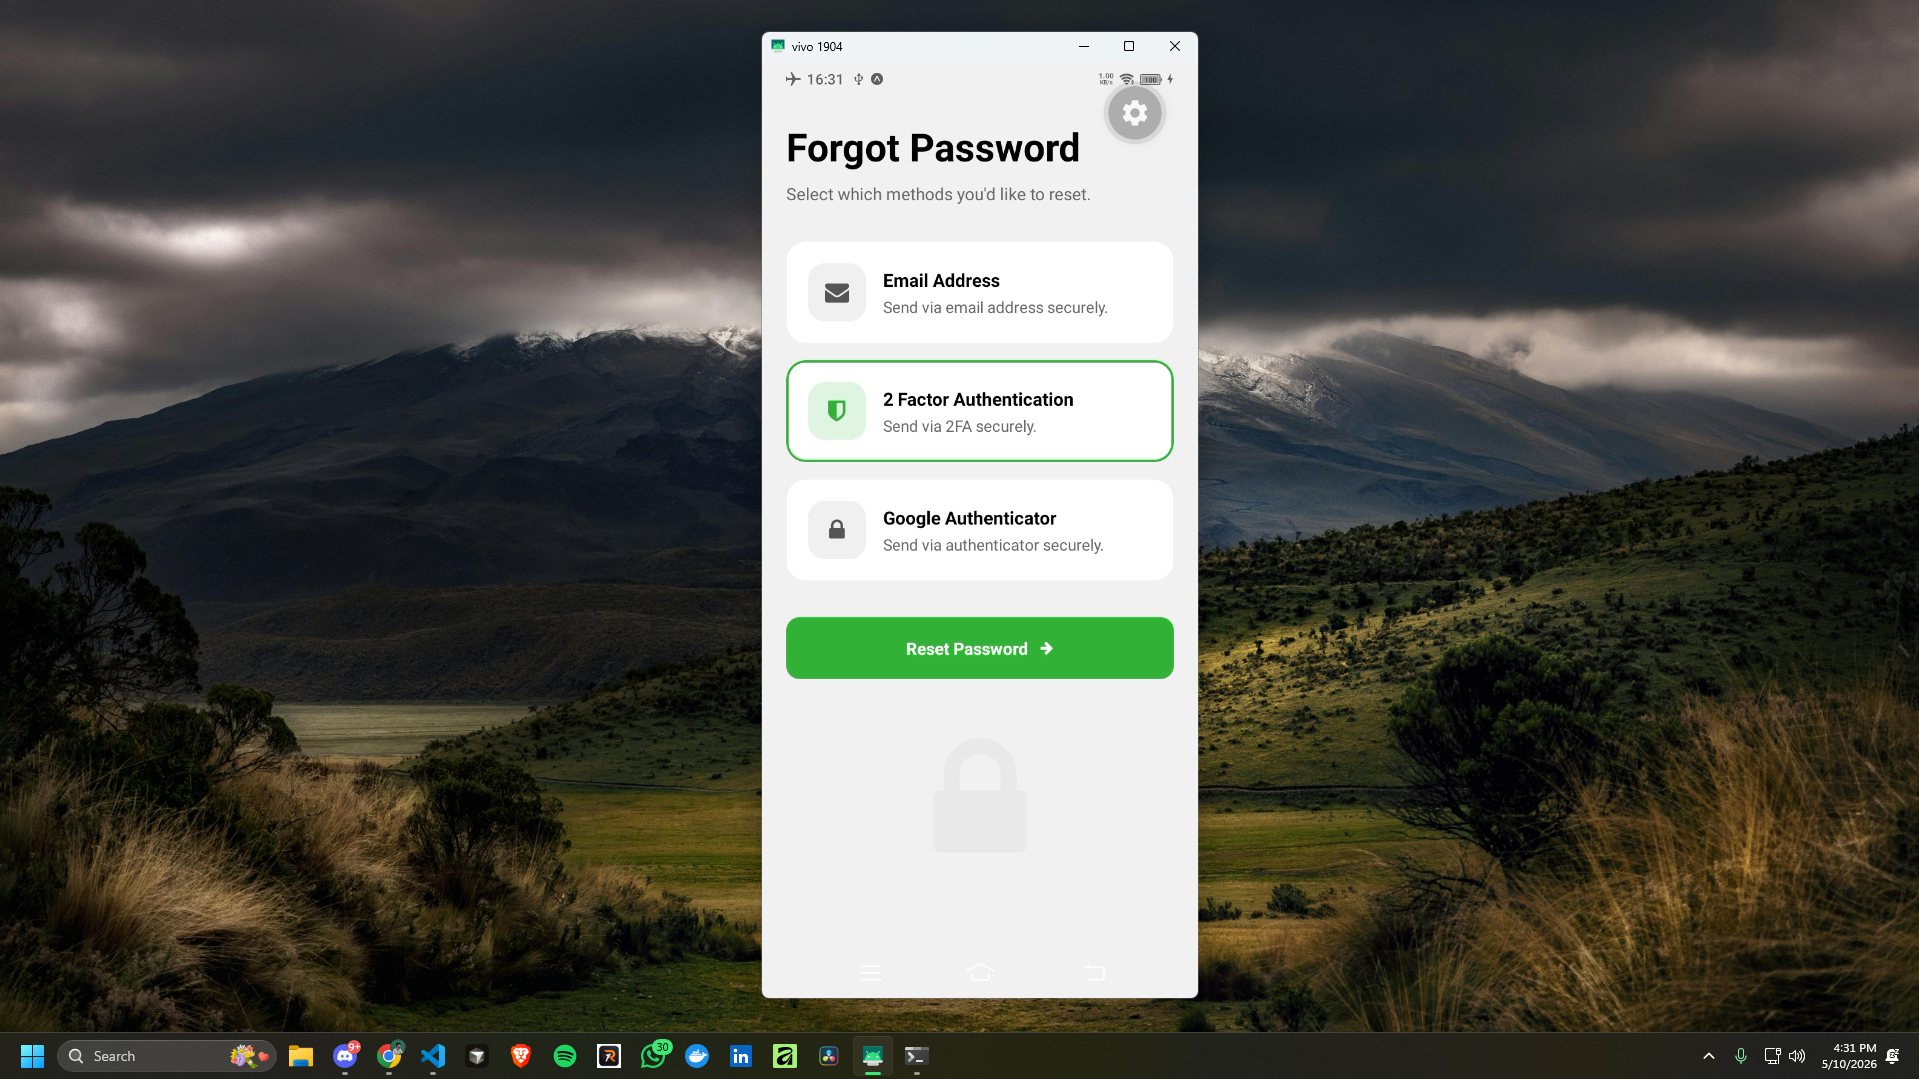
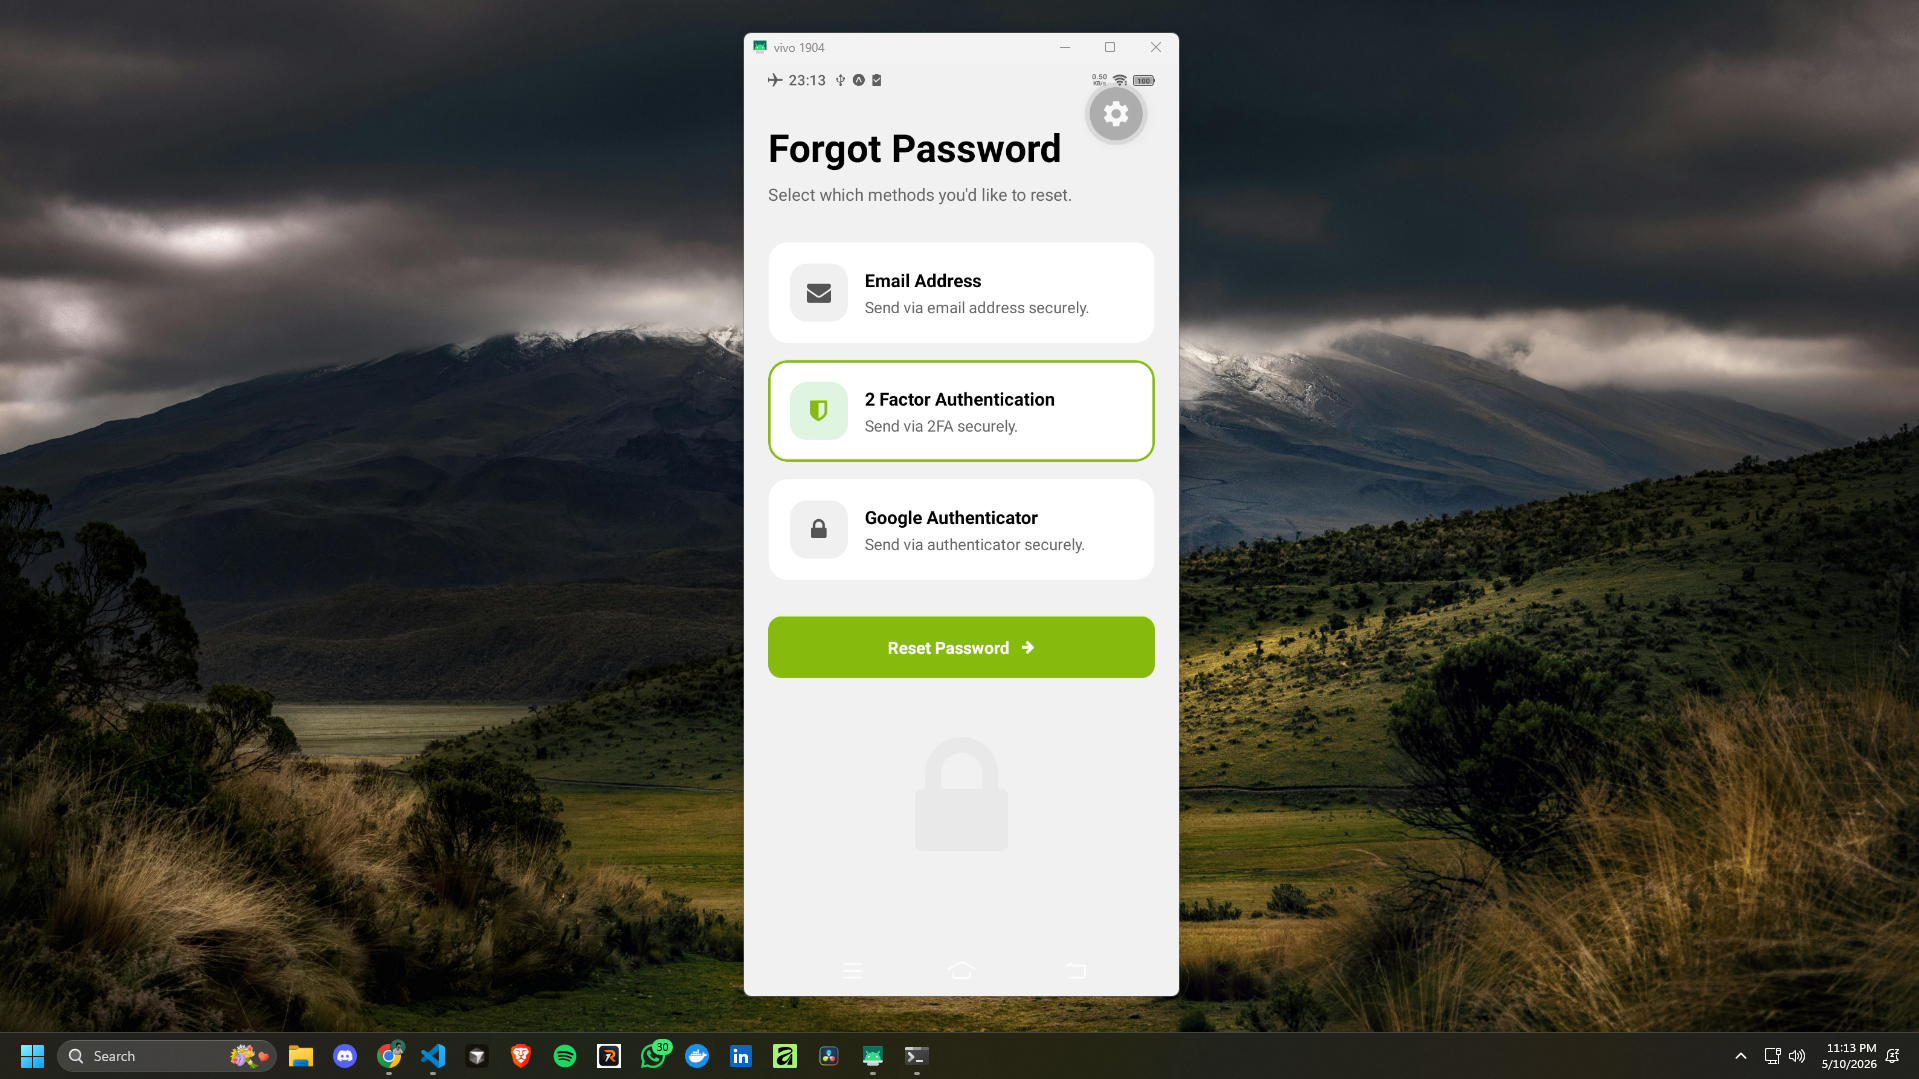
feat: update color scheme for buttons and text in Forgot Password, Sign Up, and main screens

Changed region(s): [[0.3689, 0.0306, 0.6456, 0.9175], [0.4304, 0.4588, 0.5842, 0.5199], [0.5842, 0.9175, 0.6149, 0.9481]]

diff --git a/src/app/forgot-password/index.tsx b/src/app/forgot-password/index.tsx
@@ -56,7 +56,7 @@ export default function ForgotPassword() {
                 <FontAwesome
                   name={method.icon}
                   size={20}
-                  color={isSelected ? "rgb(60, 200, 60)" : "#555"}
+                  color={isSelected ? "rgba(137, 204, 19)" : "#555"}
                 />
               </View>
               <View style={styles.methodTextBox}>
@@ -113,7 +113,7 @@ const styles = StyleSheet.create({
     borderColor: "transparent",
   },
   methodCardSelected: {
-    borderColor: "rgb(60, 200, 60)",
+    borderColor: "rgba(137, 204, 19)",
   },
   methodIconBox: {
     width: 48,
@@ -141,7 +141,7 @@ const styles = StyleSheet.create({
   authButton: {
     marginTop: 30,
     padding: 16,
-    backgroundColor: "rgb(60, 200, 60)",
+    backgroundColor: "rgba(137, 204, 19)",
     borderRadius: 11,
     alignItems: "center",
     justifyContent: "center",

diff --git a/src/app/index.tsx b/src/app/index.tsx
@@ -123,7 +123,7 @@ const styles = StyleSheet.create({
   authButton: {
     marginTop: 15,
     padding: 16,
-    backgroundColor: "rgb(60, 200, 60)",
+    backgroundColor: "rgba(137, 204, 19)",
     borderRadius: 11,
     alignItems: "center",
     justifyContent: "center",
@@ -144,7 +144,7 @@ const styles = StyleSheet.create({
     gap: 10,
   },
   footerLinks: {
-    color: "rgb(38, 126, 38)",
+    color: "rgba(137, 204, 19)",
     textDecorationLine: "underline",
   },
 });

diff --git a/src/app/signup/index.tsx b/src/app/signup/index.tsx
@@ -129,7 +129,7 @@ const styles = StyleSheet.create({
   authButton: {
     marginTop: 15,
     padding: 16,
-    backgroundColor: "rgb(60, 200, 60)",
+    backgroundColor: "rgba(137, 204, 19)",
     borderRadius: 11,
     alignItems: "center",
     justifyContent: "center",
@@ -149,7 +149,7 @@ const styles = StyleSheet.create({
     gap: 10,
   },
   footerLinks: {
-    color: "rgb(38, 126, 38)",
+    color: "rgba(137, 204, 19)",
     textDecorationLine: "underline",
   },
 });
